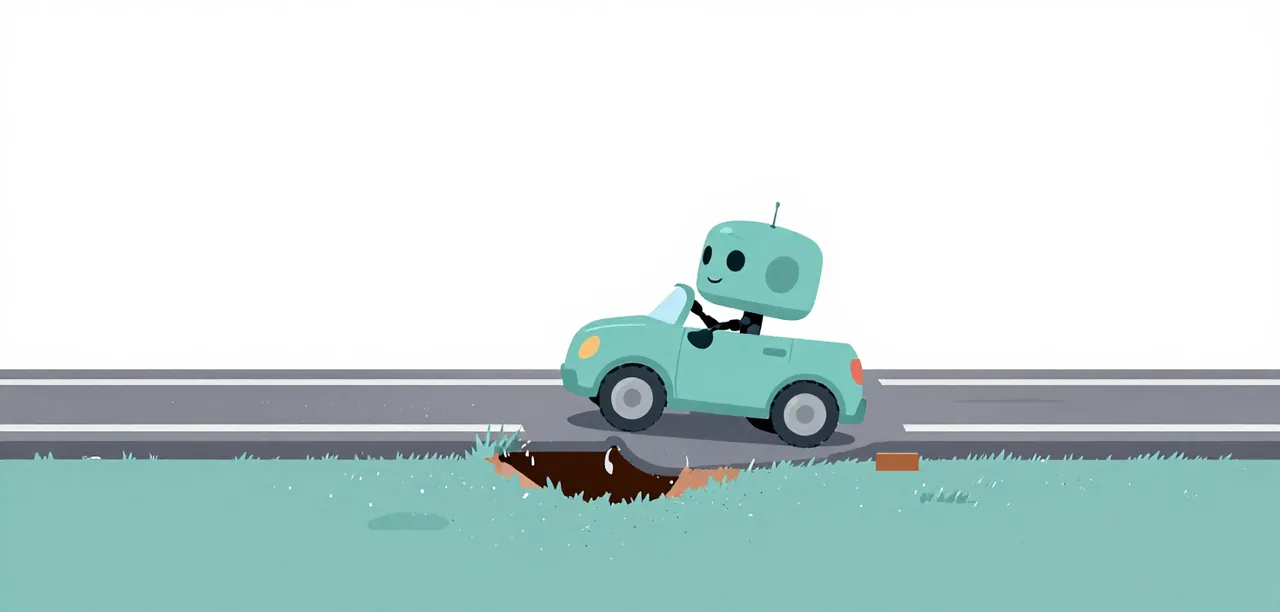
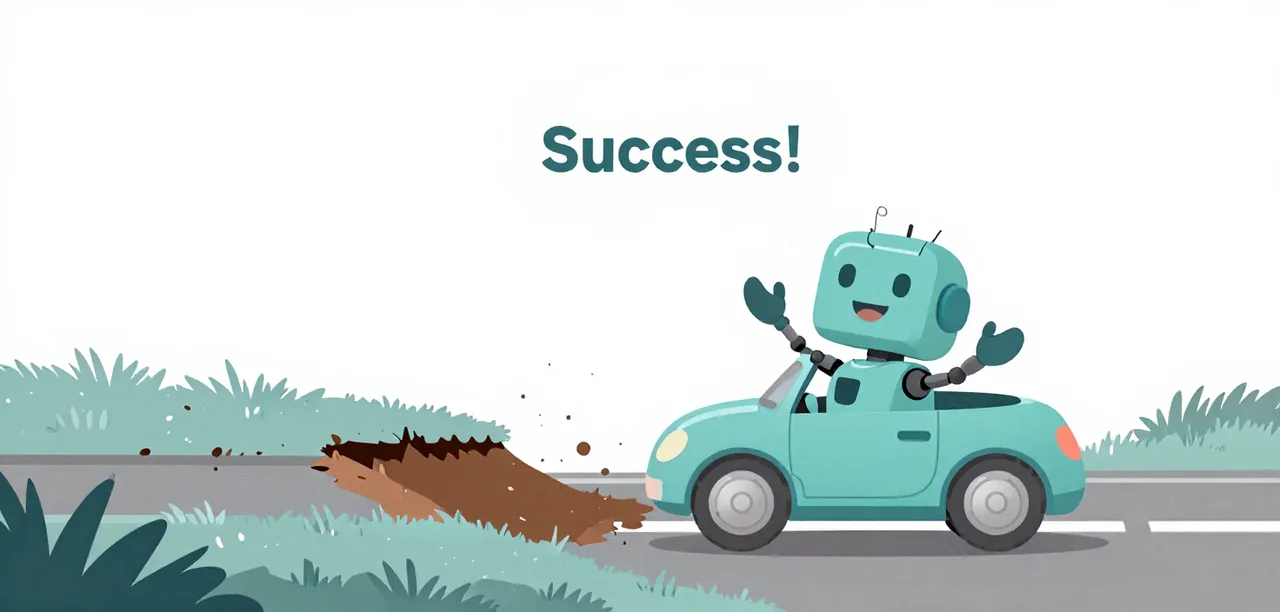
feat(learn): Title Case titles, a Ditch that says Success!, three-step Lessons image
Page titles, front-matter titles, menus and card titles are Title Case. The Ditch shows its prompt as the commands send it (Make it work.) and its image is the robot in the ditch saying Success!; prompts.toml entries may override the shared style for that. The Lessons image has exactly three steps.

diff --git a/scripts/illustrate.py b/scripts/illustrate.py
@@ -41,9 +41,11 @@ def load() -> tuple[dict, dict[str, dict]]:
 
 
 def request(shared: dict, entry: dict) -> dict:
+    # An entry may override the shared style or negative prompt, e.g. to allow
+    # one short word in a speech bubble where the shared style forbids text.
     return {
-        "prompt": f"{entry['subject']}, {shared['style']}",
-        "negative_prompt": shared.get("negative"),
+        "prompt": f"{entry['subject']}, {entry.get('style', shared['style'])}",
+        "negative_prompt": entry.get("negative", shared.get("negative")),
         "width": entry.get("width", shared["width"]),
         "height": entry.get("height", shared["height"]),
         "seed": entry["seed"],

diff --git a/learn/lessons/medium/index.md b/learn/lessons/medium/index.md
@@ -1,4 +1,4 @@
-# Medium lessons
+# Medium Lessons
 
 How the model spends its session: its thinking, its empty turns and the shape
 of the task it is handed. Each lesson stands on its own; you will read a trace,
@@ -9,28 +9,28 @@ is the only prerequisite.
 
 <div class="grid cards" markdown>
 
--   **[M1 · Thinking is working memory](thinking-working-memory.md)**
+-   **[M1 · Thinking Is Working Memory](thinking-working-memory.md)**
 
     ---
 
     The strip-thinking arm has no instrument on llama.cpp; thinking spends the
     output budget. *(Paul)*
 
--   **[M2 · Guards for empty turns and loops](guards-for-empty-turns.md)**
+-   **[M2 · Guards for Empty Turns and Loops](guards-for-empty-turns.md)**
 
     ---
 
     The nudge never fired in ten easy sessions: no empty turn had the shape it
     answers. *(Paul)*
 
--   **[M3 · One spec file per phase](one-spec-per-phase.md)**
+-   **[M3 · One Spec File per Phase](one-spec-per-phase.md)**
 
     ---
 
     Writing the acceptance criteria into the spec took a worker from "no check
     could run" to one missing check. *(Paul)*
 
--   **[M4 · A prose brief stops at its first reply](prose-brief.md)**
+-   **[M4 · A Prose Brief Stops at Its First Reply](prose-brief.md)**
 
     ---
 

diff --git a/learn/lessons/easy/index.md b/learn/lessons/easy/index.md
@@ -1,4 +1,4 @@
-# Easy lessons
+# Easy Lessons
 
 One setting, one visible effect, read in a table. Each lesson stands on its
 own and assumes only [Getting started](../../getting-started/index.md).
@@ -7,28 +7,28 @@ own and assumes only [Getting started](../../getting-started/index.md).
 
 <div class="grid cards" markdown>
 
--   **[E1 · The suite baseline](baseline.md)**
+-   **[E1 · The Suite Baseline](baseline.md)**
 
     ---
 
     Baseline Pi and the Baseline Worker on easy, medium and hard, n = 3, on
     llama.cpp: the numbers every other lesson changes. *(Paul)*
 
--   **[E2 · Write only the files you list](write-only-listed.md)**
+-   **[E2 · Write Only the Files You List](write-only-listed.md)**
 
     ---
 
     A file-set check runs after every session; easy showed no writes outside
     the layout. *(Paul)*
 
--   **[E3 · Project facts](project-facts.md)**
+-   **[E3 · Project Facts](project-facts.md)**
 
     ---
 
     The block reaches the model in every request and did not move easy at
     n = 3. A null, with a lead. *(Paul)*
 
--   **[E4 · A short prompt, not a procedure](short-prompt.md)**
+-   **[E4 · A Short Prompt, Not a Procedure](short-prompt.md)**
 
     ---
 

diff --git a/learn/getting-started/ditch.md b/learn/getting-started/ditch.md
@@ -1,5 +1,5 @@
 ---
-title: The ditch
+title: The Ditch
 track: getting-started
 position: 2
 prerequisites: [getting-started/base-pi-on-llamacpp]
@@ -7,7 +7,7 @@ authors: [Paul Everitt, Andre van Zuydam]
 backends: [llamacpp]
 ---
 
-# The ditch
+# The Ditch
 
 ![A small robot cheerfully driving a little car that has tipped off the road into a ditch](../assets/illustrations/ditch.webp){ .illustration }
 
@@ -19,7 +19,7 @@ not survive being checked.
 
 One session, these three prompts in order:
 
-1. `Build AgentClinic: a small clinic appointment app. Patients book appointments with doctors, and a doctor can see their day. Make it work!`
+1. `Build AgentClinic: a small clinic appointment app. Patients book appointments with doctors, and a doctor can see their day. Make it work.`
 2. `Now add tests and make them pass`
 3. `Add a command-line tool that lists a doctor's appointments for a given date`
 

diff --git a/learn/lessons/hard/index.md b/learn/lessons/hard/index.md
@@ -1,4 +1,4 @@
-# Hard lessons
+# Hard Lessons
 
 Orchestration and advanced concepts: who drives the model, how work is split,
 checked and re-dispatched. Each lesson stands on its own; it helps to know what
@@ -8,14 +8,14 @@ a worker is ([Getting started](../../getting-started/worker-extension.md)).
 
 <div class="grid cards" markdown>
 
--   **[H1 · The primary agent is the wrong worker](primary-agent.md)**
+-   **[H1 · The Primary Agent Is the Wrong Worker](primary-agent.md)**
 
     ---
 
     Neither suite separates the two arms on passes at n = 3; what separates
     them is how they fail. *(Paul)*
 
--   **[H2 · The intercom block is a prefill tax](intercom-block.md)**
+-   **[H2 · The Intercom Block Is a Prefill Tax](intercom-block.md)**
 
     ---
 

diff --git a/CHANGELOG.md b/CHANGELOG.md
@@ -440,7 +440,7 @@ Versions match git tags; pin one in both install lines.
 ### Changed
 
 - The Learning Center is ready to read: every page was proofread and has no
-  em dashes; headings are sentence case; Getting started is five numbered
+  em dashes; page titles and menus are Title Case and section headings sentence case; Getting started is five numbered
   steps (not "lessons"); the glossary is grouped into sections; Home, the
   Introduction and Pathologies have side menus; About sits last with Project,
   the lesson template and Credits under it; Paul is credited first; and the

diff --git a/learn/lessons/medium/prose-brief.md b/learn/lessons/medium/prose-brief.md
@@ -1,5 +1,5 @@
 ---
-title: A prose brief stops at its first reply
+title: A Prose Brief Stops at Its First Reply
 tier: medium
 number: M4
 time: 6 min read · 100 min to run
@@ -10,7 +10,7 @@ authors: [Paul Everitt]
 backends: [llamacpp]
 ---
 
-# M4 · A prose brief stops at its first reply
+# M4 · A Prose Brief Stops at Its First Reply
 
 A four-phase build handed over as one joined brief finished faster and cheaper,
 and left a project the checks could not open in all three sessions. Sent as

diff --git a/learn/lessons/hard/primary-agent.md b/learn/lessons/hard/primary-agent.md
@@ -1,5 +1,5 @@
 ---
-title: The primary agent is the wrong worker
+title: The Primary Agent Is the Wrong Worker
 tier: hard
 number: H1
 time: 6 min read · about 2 h to run
@@ -10,7 +10,7 @@ authors: [Paul Everitt]
 backends: [llamacpp]
 ---
 
-# H1 · The primary agent is the wrong worker
+# H1 · The Primary Agent Is the Wrong Worker
 
 The primary agent lets one small model plan, choose and decide it is finished,
 so its failures arrive as yours: a server that never returns, a file outside

diff --git a/learn/lessons/medium/guards-for-empty-turns.md b/learn/lessons/medium/guards-for-empty-turns.md
@@ -1,5 +1,5 @@
 ---
-title: Guards for empty turns and loops
+title: Guards for Empty Turns and Loops
 tier: medium
 number: M2
 time: 5 min read · 60 min to run
@@ -10,7 +10,7 @@ authors: [Paul Everitt]
 backends: [llamacpp]
 ---
 
-# M2 · Guards for empty turns and loops
+# M2 · Guards for Empty Turns and Loops
 
 A small model can end a turn having said nothing and called no tool, and the
 run stops there. The shipped guards answer that empty turn and repetition, and

diff --git a/learn/lessons/hard/intercom-block.md b/learn/lessons/hard/intercom-block.md
@@ -1,5 +1,5 @@
 ---
-title: The intercom block is a prefill tax
+title: The Intercom Block Is a Prefill Tax
 tier: hard
 number: H2
 time: 5 min read
@@ -10,7 +10,7 @@ authors: [Paul Everitt]
 backends: [llamacpp]
 ---
 
-# H2 · The intercom block is a prefill tax
+# H2 · The Intercom Block Is a Prefill Tax
 
 A delegate's protocol text sent on every turn is context you pay for again on
 every request, for a channel the parent may never open. The worker hands back one

diff --git a/learn/getting-started/suite.md b/learn/getting-started/suite.md
@@ -1,5 +1,5 @@
 ---
-title: Eval suites and the telemetry
+title: Eval Suites and the Telemetry
 track: getting-started
 position: 4
 prerequisites: [getting-started/harness]
@@ -7,7 +7,7 @@ authors: [Paul Everitt]
 backends: [llamacpp]
 ---
 
-# Eval suites and the telemetry
+# Eval Suites and the Telemetry
 
 Step 3 made one isolated run. This one runs **eval suites**: whole projects
 the model has to build, with a mission, a tech stack, a roadmap, a sequence of

diff --git a/learn/lessons/easy/short-prompt.md b/learn/lessons/easy/short-prompt.md
@@ -1,5 +1,5 @@
 ---
-title: A short prompt, not a procedure
+title: A Short Prompt, Not a Procedure
 tier: easy
 number: E4
 time: 4 min read · 35 min to run
@@ -10,7 +10,7 @@ authors: [Paul Everitt]
 backends: [llamacpp]
 ---
 
-# E4 · A short prompt, not a procedure
+# E4 · A Short Prompt, Not a Procedure
 
 A prompt that narrates a six-step procedure gives a small model more to
 follow than the project needs, and every line is paid on every request. What
